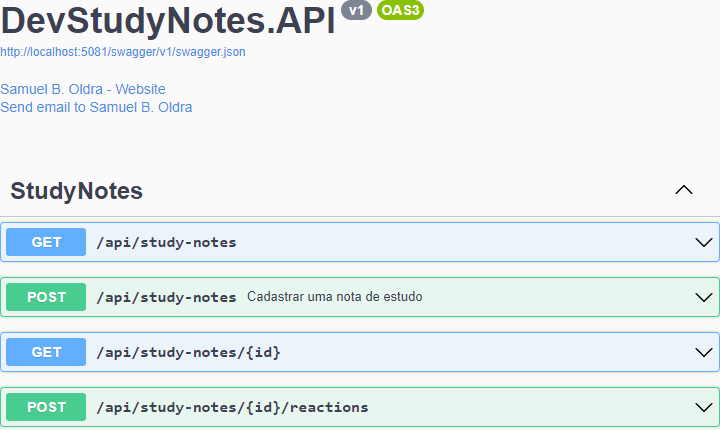
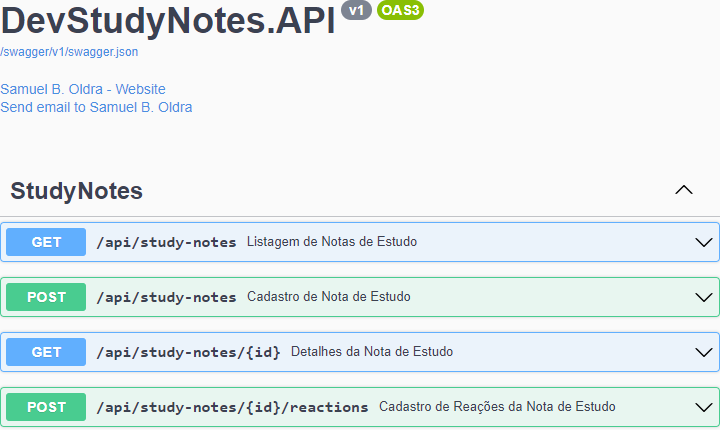
Adicionados comentários no SWAGGER #1

diff --git a/DevStudyNotes.API/Controllers/StudyNotesController.cs b/DevStudyNotes.API/Controllers/StudyNotesController.cs
@@ -15,7 +15,14 @@ namespace DevStudyNotes.API.Controllers
         public StudyNotesController(StudyNoteDbContext context)
             => _context = context;
 
+        // GET: api/study-notes
+        /// <summary>
+        /// Listagem de Notas de Estudo
+        /// </summary>
+        /// <returns>Lista de Notas de Estudo</returns>
+        /// <response code="200">Sucesso</response>
         [HttpGet]
+        [ProducesResponseType(StatusCodes.Status200OK)]
         public IActionResult GetAll()
         {
             var studyNotes = _context.StudyNotes.ToList();
@@ -23,28 +30,46 @@ namespace DevStudyNotes.API.Controllers
             return Ok(studyNotes);
         }
 
+        // GET: api/study-notes/{id}
+        /// <summary>
+        /// Detalhes da Nota de Estudo
+        /// </summary>
+        /// <param name="id">ID da Nota de Estudo</param>
+        /// <returns>Mostra uma Nota de Estudo</returns>
+        /// <response code="200">Sucesso</response>
+        /// <response code="404">Não encontrado</response>
         [HttpGet("{id}")]
+        [ProducesResponseType(StatusCodes.Status200OK)]
+        [ProducesResponseType(StatusCodes.Status404NotFound)]
         public IActionResult GetById(int id)
         {
             var studyNote = _context.StudyNotes.Include(s => s.Reactions).SingleOrDefault(s => s.Id == id);
 
             if (studyNote == null)
-                return NotFound();
+                return NotFound("Nota de Estudo não encontrada.");
 
             return Ok(studyNote);
         }
 
-        // api/study-notes HTTP POST
+        // POST: api/study-notes
         /// <summary>
-        /// Cadastrar uma nota de estudo
+        /// Cadastro de Nota de Estudo
         /// </summary>
         /// <remarks>
-        /// { "title": "Estudos AZ-400", "description": "Sobre o Azure Blob Storage", "isPublic": true }
+        /// Requisição:
+        /// {
+        ///     "title": "Estudos AZ-400",
+        ///     "description": "Sobre o Azure Blob Storage",
+        ///     "isPublic": true
+        /// }
         /// </remarks>
-        /// <param name="model">Dados de uma nota de estudo</param>
-        /// <returns>Objeto recém-criado</returns>
+        /// <param name="model">Dados da Nota de Estudo</param>
+        /// <returns>Objeto criado</returns>
         /// <response code="201">Sucesso</response>
+        /// <response code="400">Dados inválidos</response>
         [HttpPost]
+        [ProducesResponseType(StatusCodes.Status201Created)]
+        [ProducesResponseType(StatusCodes.Status400BadRequest)]
         public IActionResult Post(AddStudyNoteInputModel model)
         {
             var studyNote = new StudyNote(model.Title, model.Description, model.IsPublic);
@@ -52,16 +77,36 @@ namespace DevStudyNotes.API.Controllers
             _context.StudyNotes.Add(studyNote);
             _context.SaveChanges();
 
-            return CreatedAtAction("GetById", new { id = studyNote.Id }, model);
+            return CreatedAtAction(nameof(GetById), new { id = studyNote.Id }, model);
         }
 
+        // POST: api/study-notes/{id}/reactions
+        /// <summary>
+        /// Cadastro de Reações da Nota de Estudo
+        /// </summary>
+        /// <remarks>
+        /// Requisição:
+        /// {
+        ///     "studyNoteId": 1,
+        ///     "isPositive": true
+        /// }
+        /// </remarks>
+        /// <param name="id">ID da Nota de Estudo</param>
+        /// <param name="model">Dados da Reação da Nota de Estudo</param>
+        /// <returns>Objeto criado</returns>
+        /// <response code="204">Sucesso</response>
+        /// <response code="400">Dados inválidos</response>
+        /// <response code="404">Não encontrado</response>
         [HttpPost("{id}/reactions")]
+        [ProducesResponseType(StatusCodes.Status204NoContent)]
+        [ProducesResponseType(StatusCodes.Status400BadRequest)]
+        [ProducesResponseType(StatusCodes.Status404NotFound)]
         public IActionResult PostReaction(int id, AddReactionStudyNoteInputModel model)
         {
             var studyNote = _context.StudyNotes.SingleOrDefault(s => s.Id == id);
 
             if (studyNote == null)
-                return BadRequest();
+                return NotFound("Nota de Estudo não encontrada.");
 
             studyNote.AddReaction(model.IsPositive);
 
